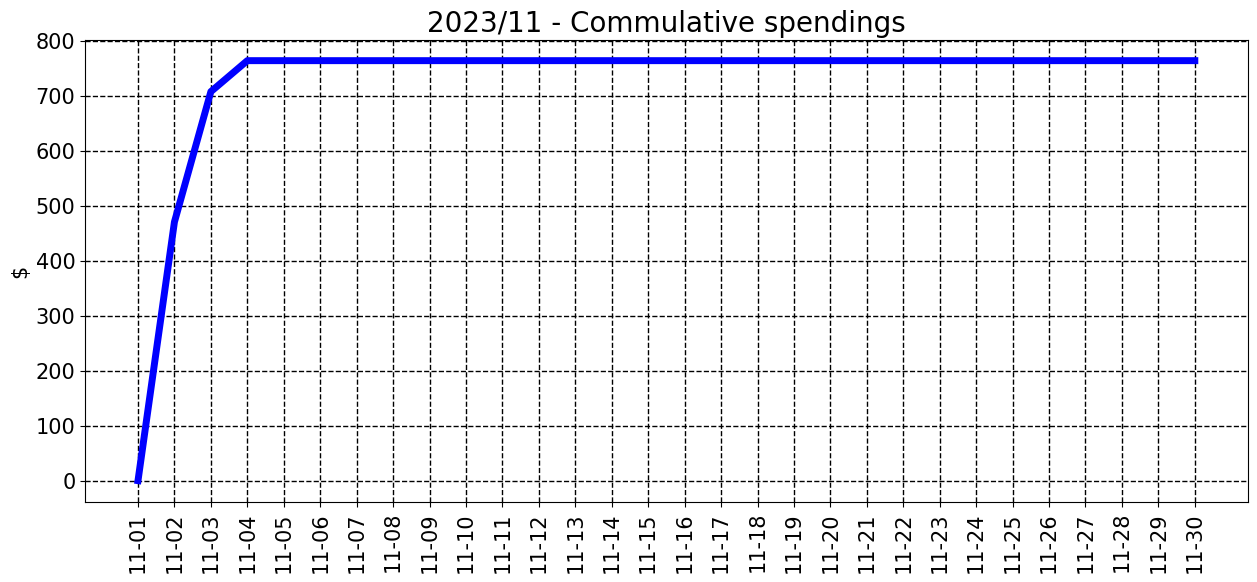
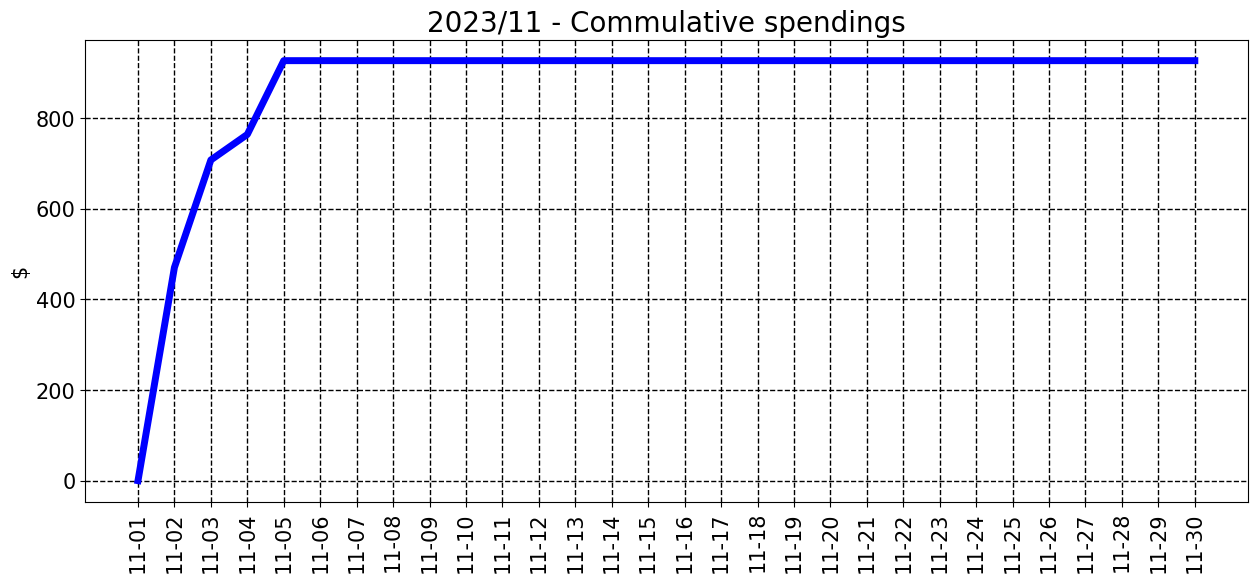
commit from python

Changed region(s): [[0.031, 0.0928, 0.9928, 0.7732], [0.031, 0.0619, 0.0621, 0.0928]]

diff --git a/README.md b/README.md
@@ -7,7 +7,7 @@ __________________________________
 <sub><sup>
 | Spent | Avg daily | End of month projection | Spent since 2023/7 |
 |---|---|---|---|
-| $764.0  |  $152.7  | $4581.0  |  $21067.0  |
+| $926.0  |  $185.3  | $5559.0  |  $21230.0  |
 </sub></sup>
 __________________________________
 ![graph_11_sum](graph_11_sum.png)
